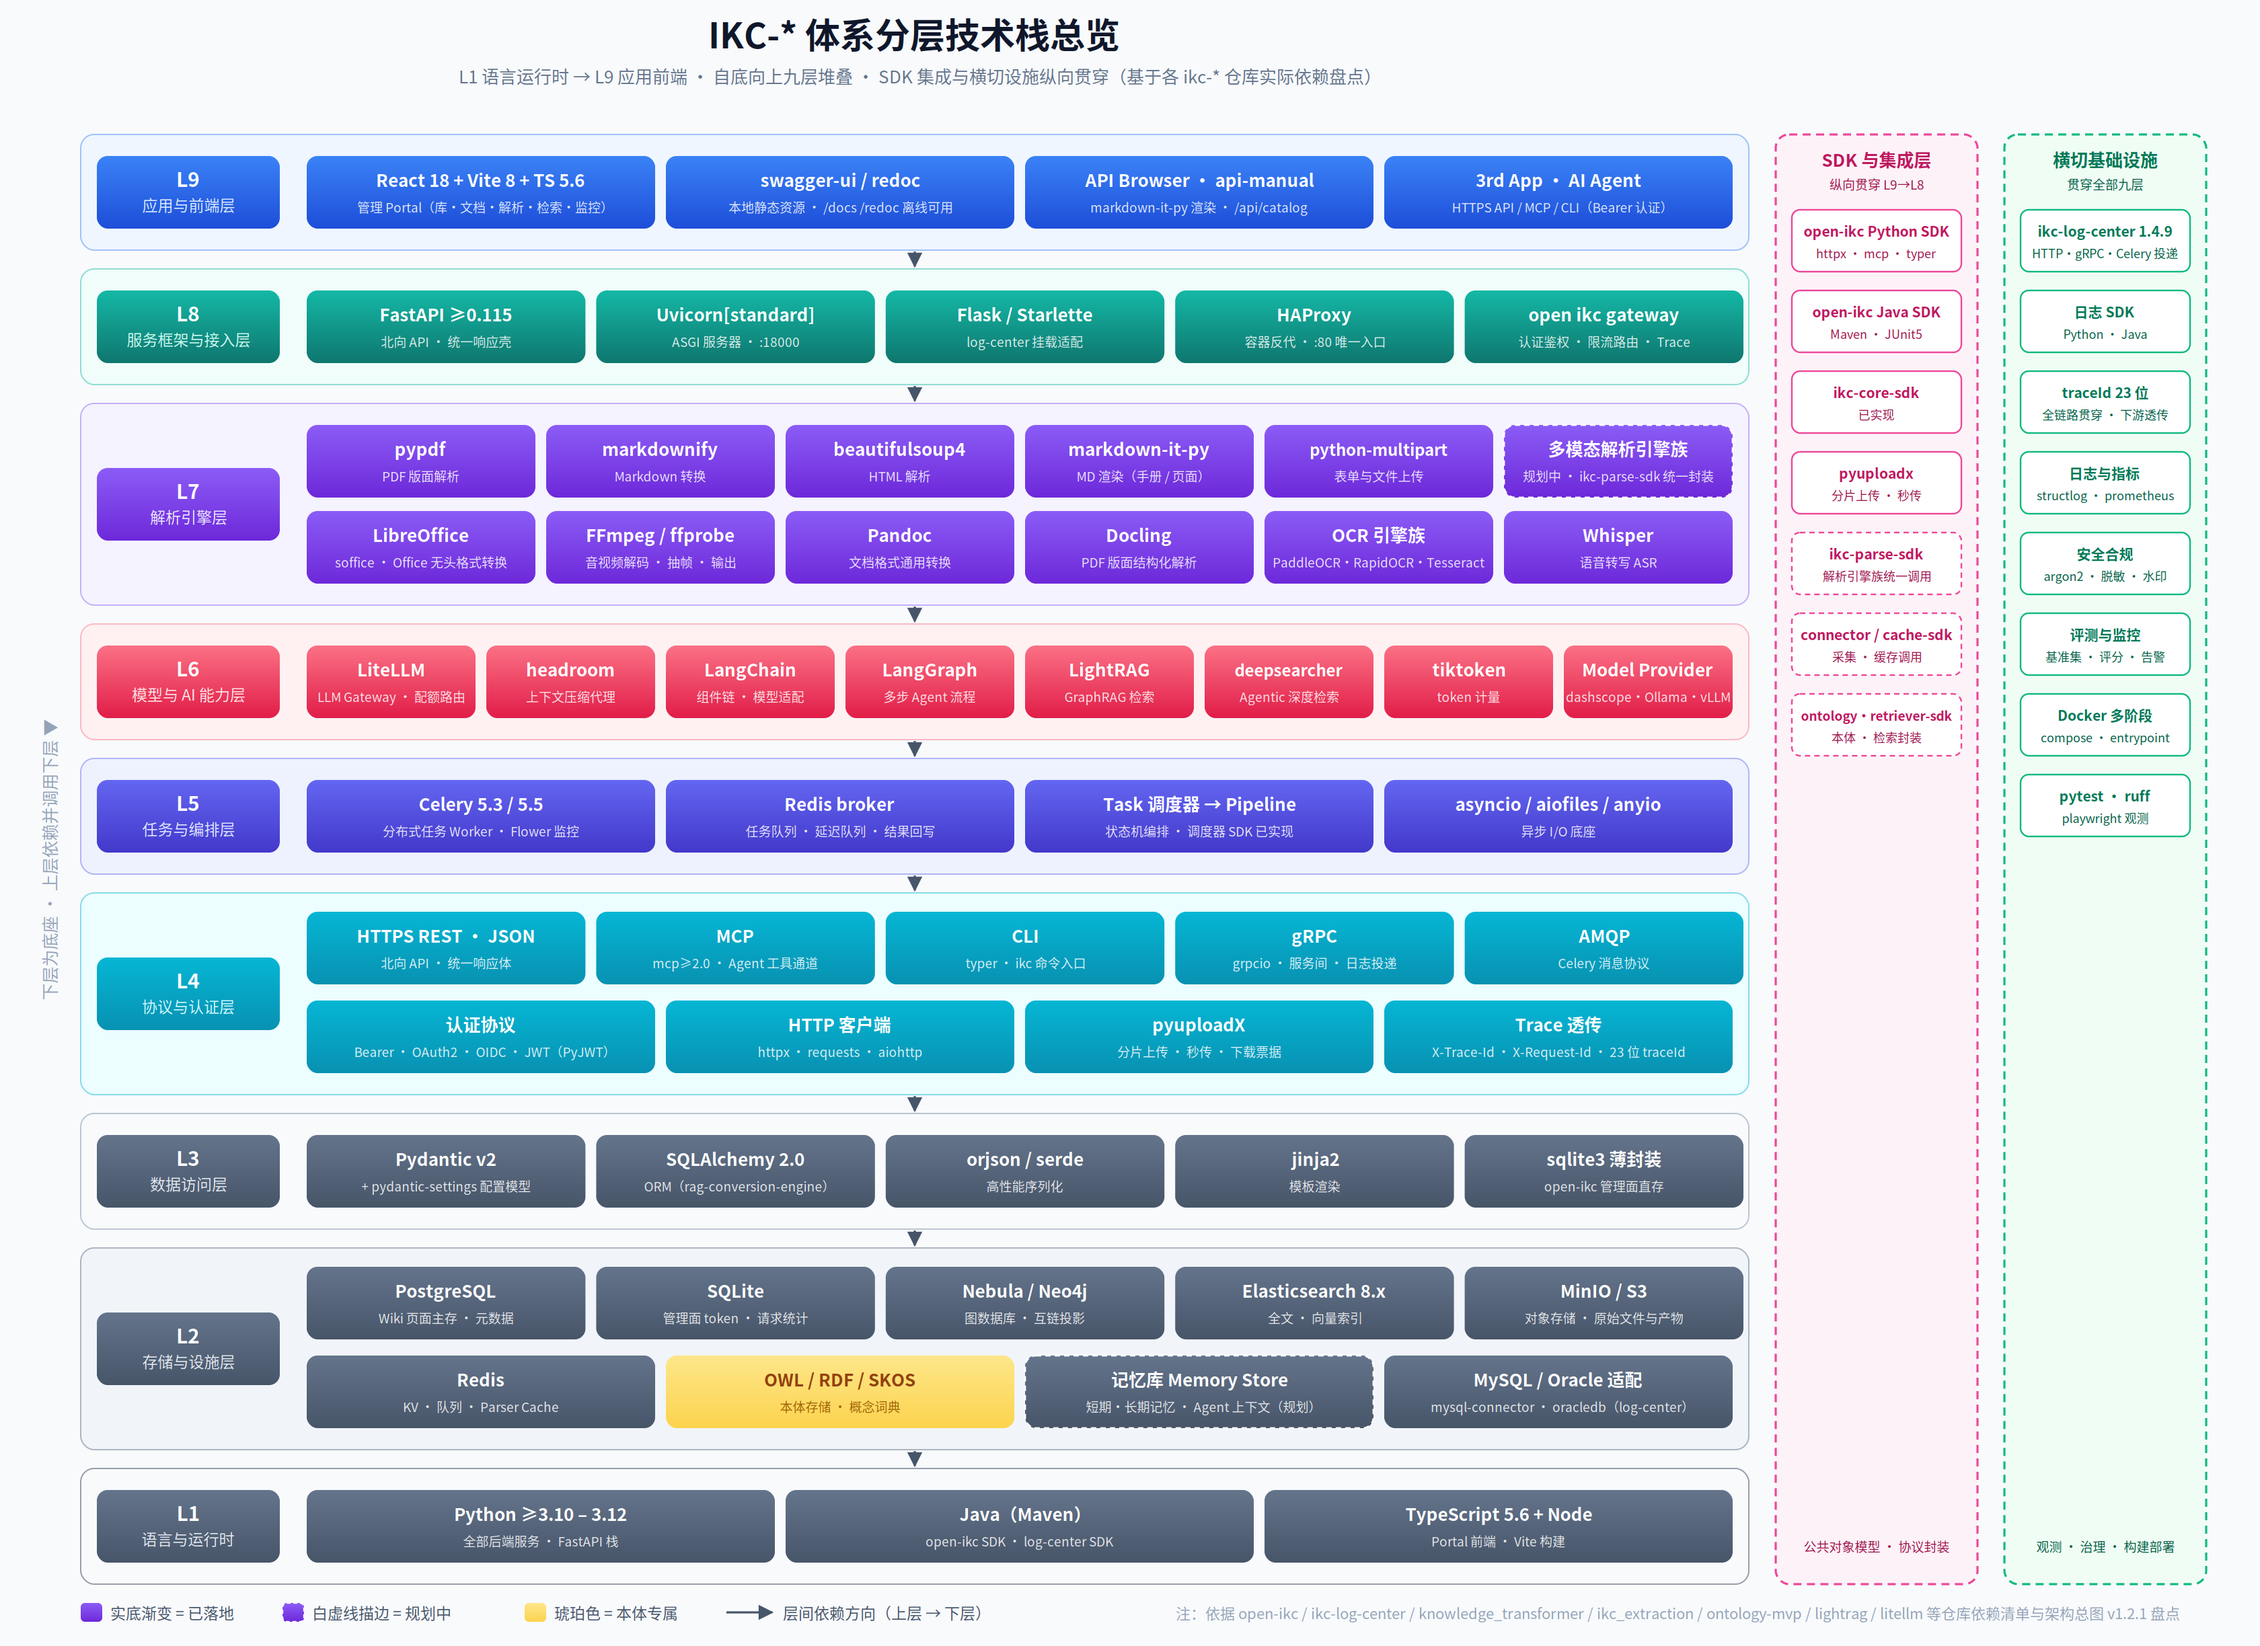
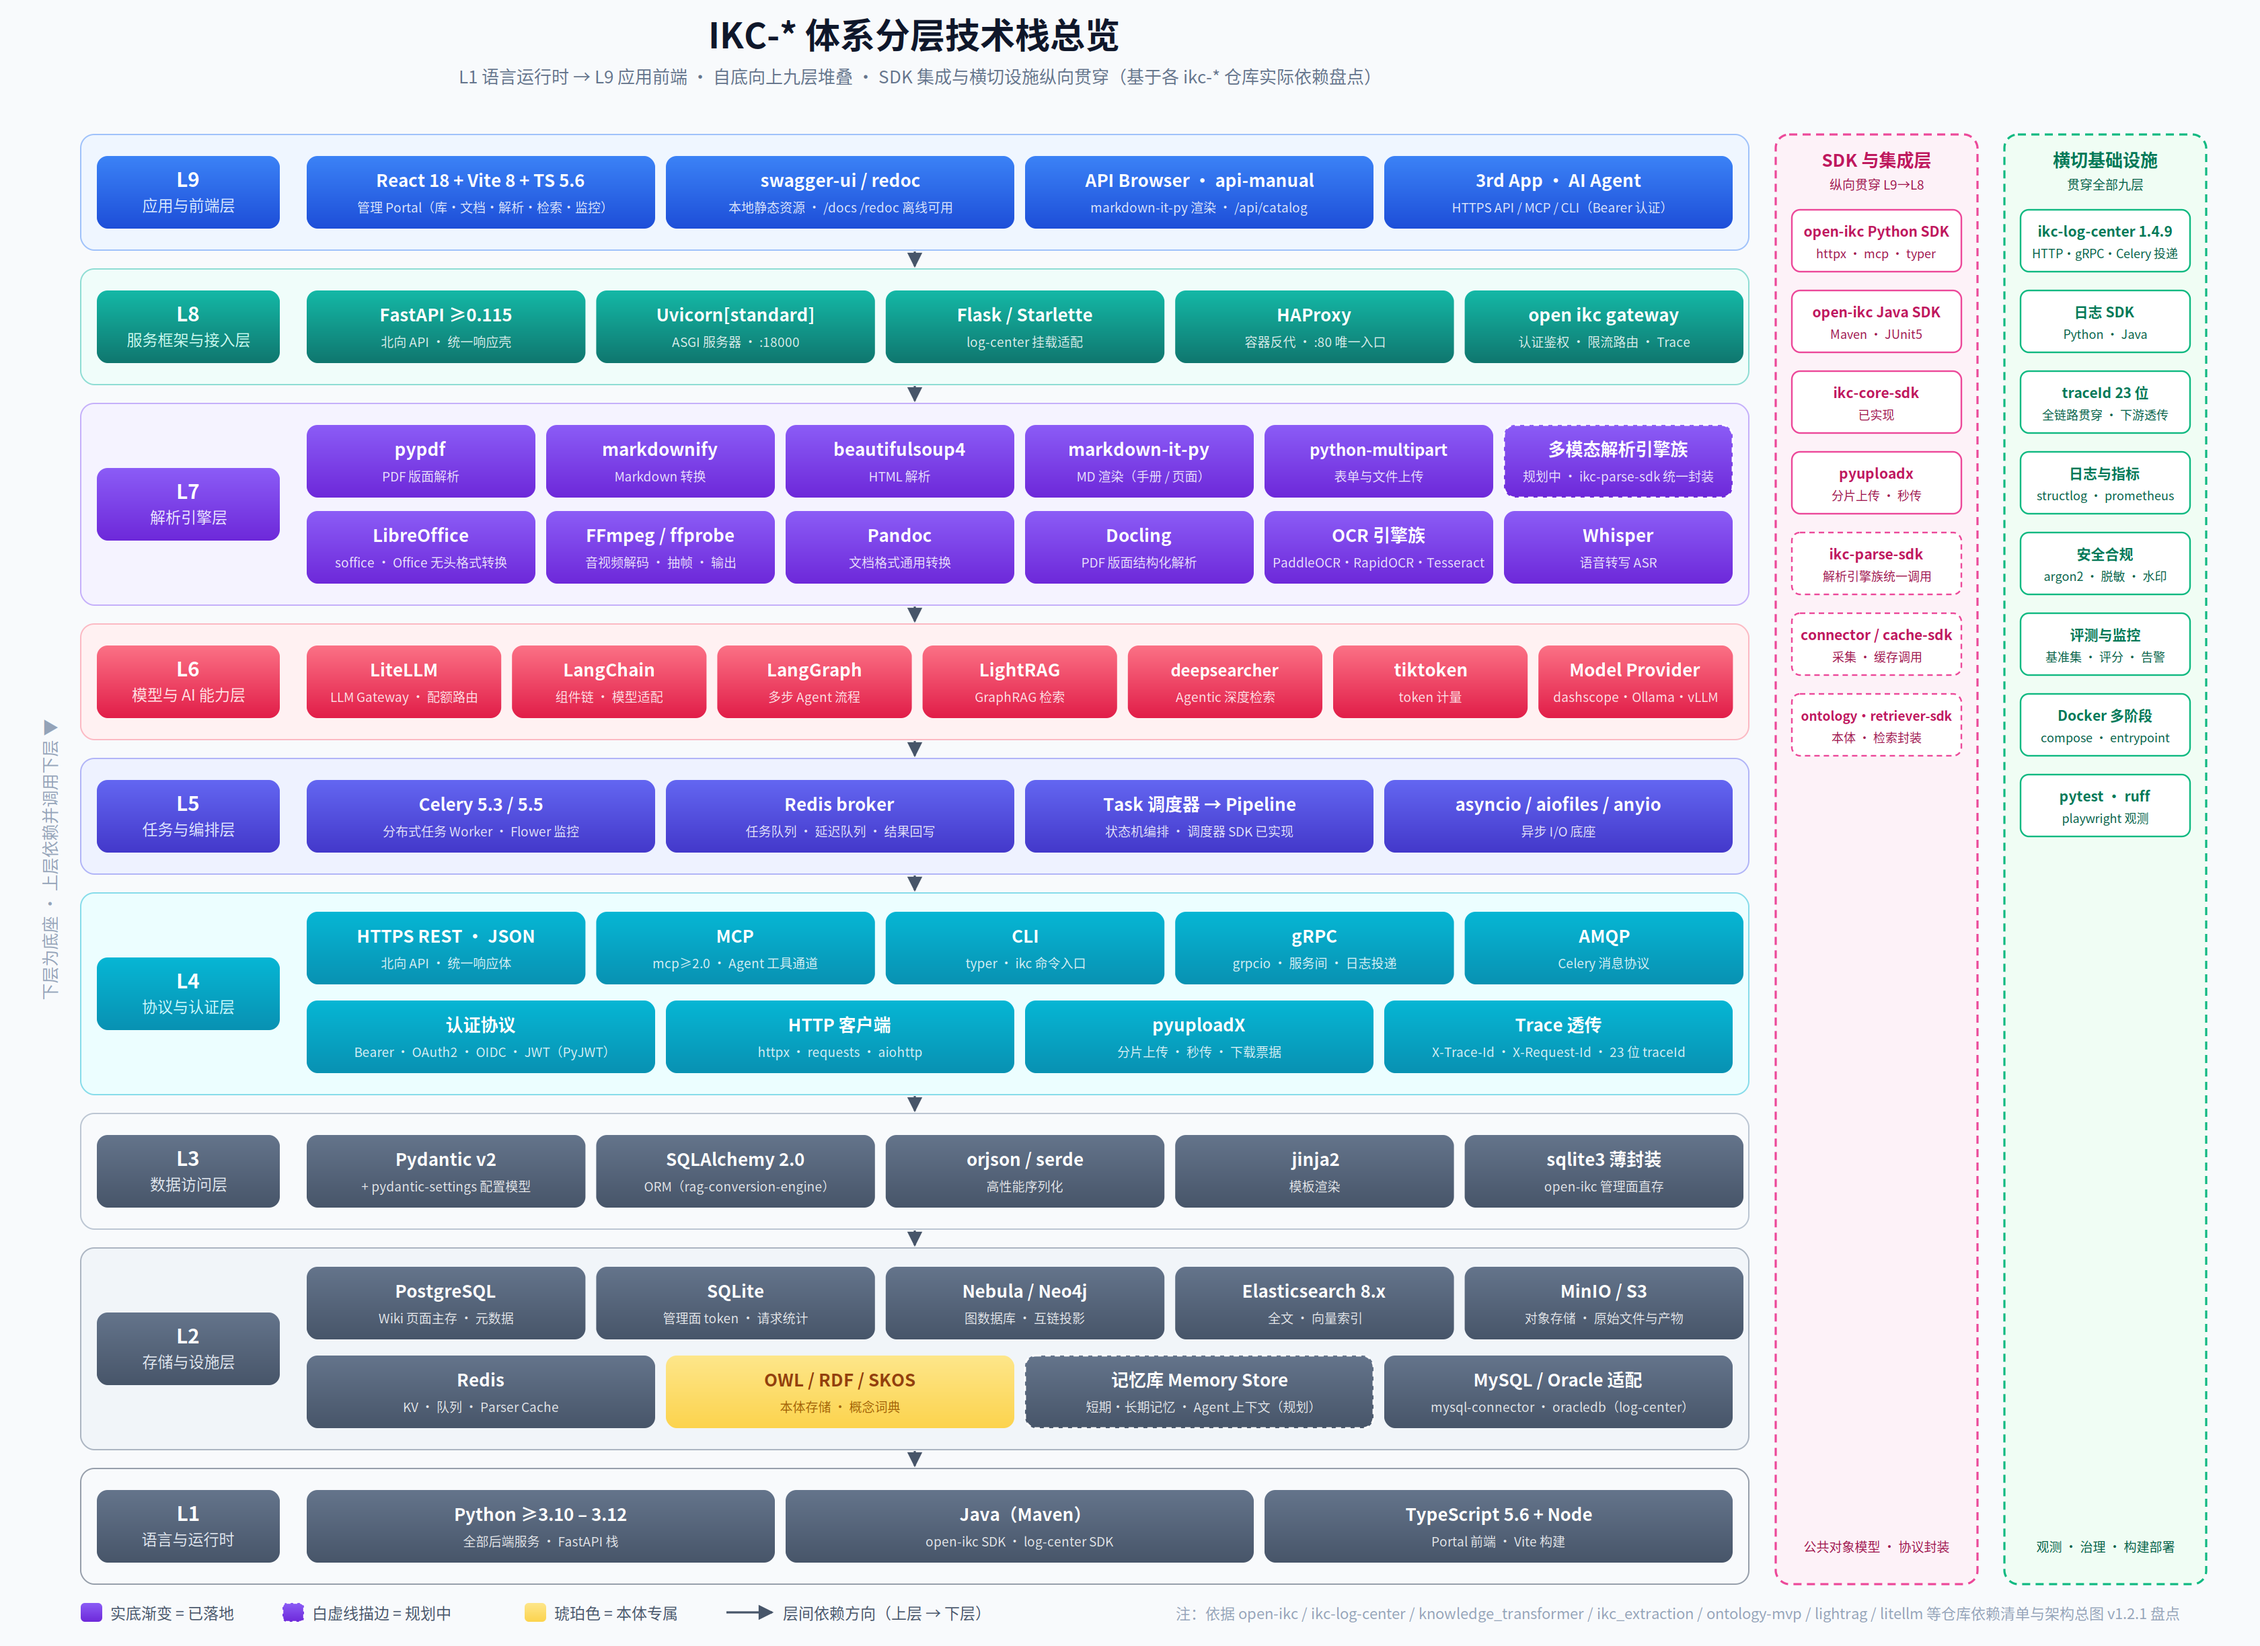
docs: 分层技术栈图移除 headroom（不集成），L6 重排为七列

Changed region(s): [[0.1562, 0.4036, 0.75, 0.4346]]

diff --git a/docs/worklog.md b/docs/worklog.md
@@ -1373,3 +1373,7 @@
 - 用户指出缺文件解析 LibreOffice、视频 FFmpeg 等第三方工具；先 grep 各仓库实证盘点出现频次：docling 329、paddleocr 114、libreoffice 77（+soffice 50）、pandoc 71、ffmpeg 48（+ffprobe 32）、rapidocr 27、tesseract 23、whisper 21（knowledge_transformer / doc-converter / ikc_extraction 等）。
 - L7 解析引擎层扩为双行带（h 86→150）：上行保持 Python 解析库，下行新增六枚第三方系统工具 chip（LibreOffice/FFmpeg·ffprobe/Pandoc/Docling/OCR 引擎族 PaddleOCR·RapidOCR·Tesseract/Whisper）；L6 及以下各层、层间箭头、图例整体 +64 平移（脚本按 y∈[400,1114] 且 x<1320 批量平移），画布 1160→1224，右侧两竖条 height 1014→1078。
 - 首轮平移遗漏图例行（y=1128–1140 超出平移上限 1114 未命中）导致与 L1 重叠，补 +64 后二次渲染确认干净；仅配图改动，跳过 Claude 只读审查。
+
+### 任务：分层技术栈图移除 headroom（2026-10-16 续）
+
+- 用户明确 headroom 不集成：删除 L6「headroom 上下文压缩代理」chip，L6 由 8 列重排为 7 列（w=144.6，x=228/380.6/533.2/685.8/838.4/991/1143.6）；grep 确认图内 headroom 零残留，局部放大渲染确认无溢出；仅配图改动，跳过 Claude 只读审查。
